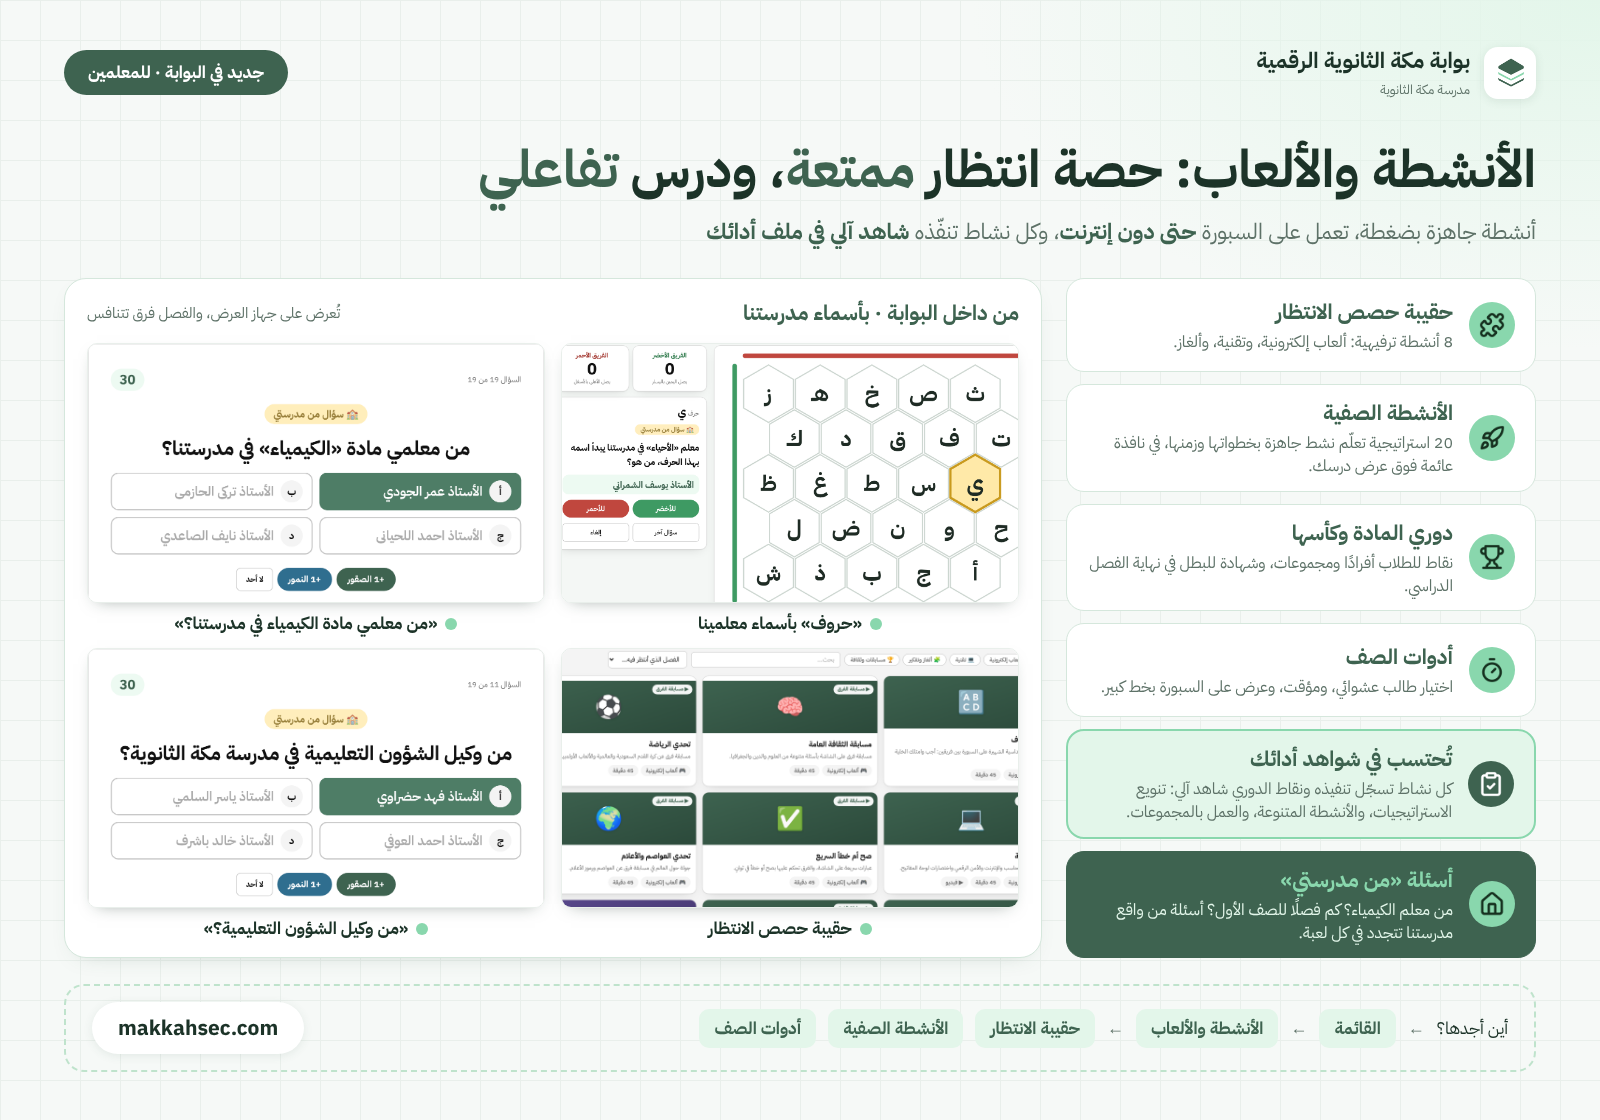
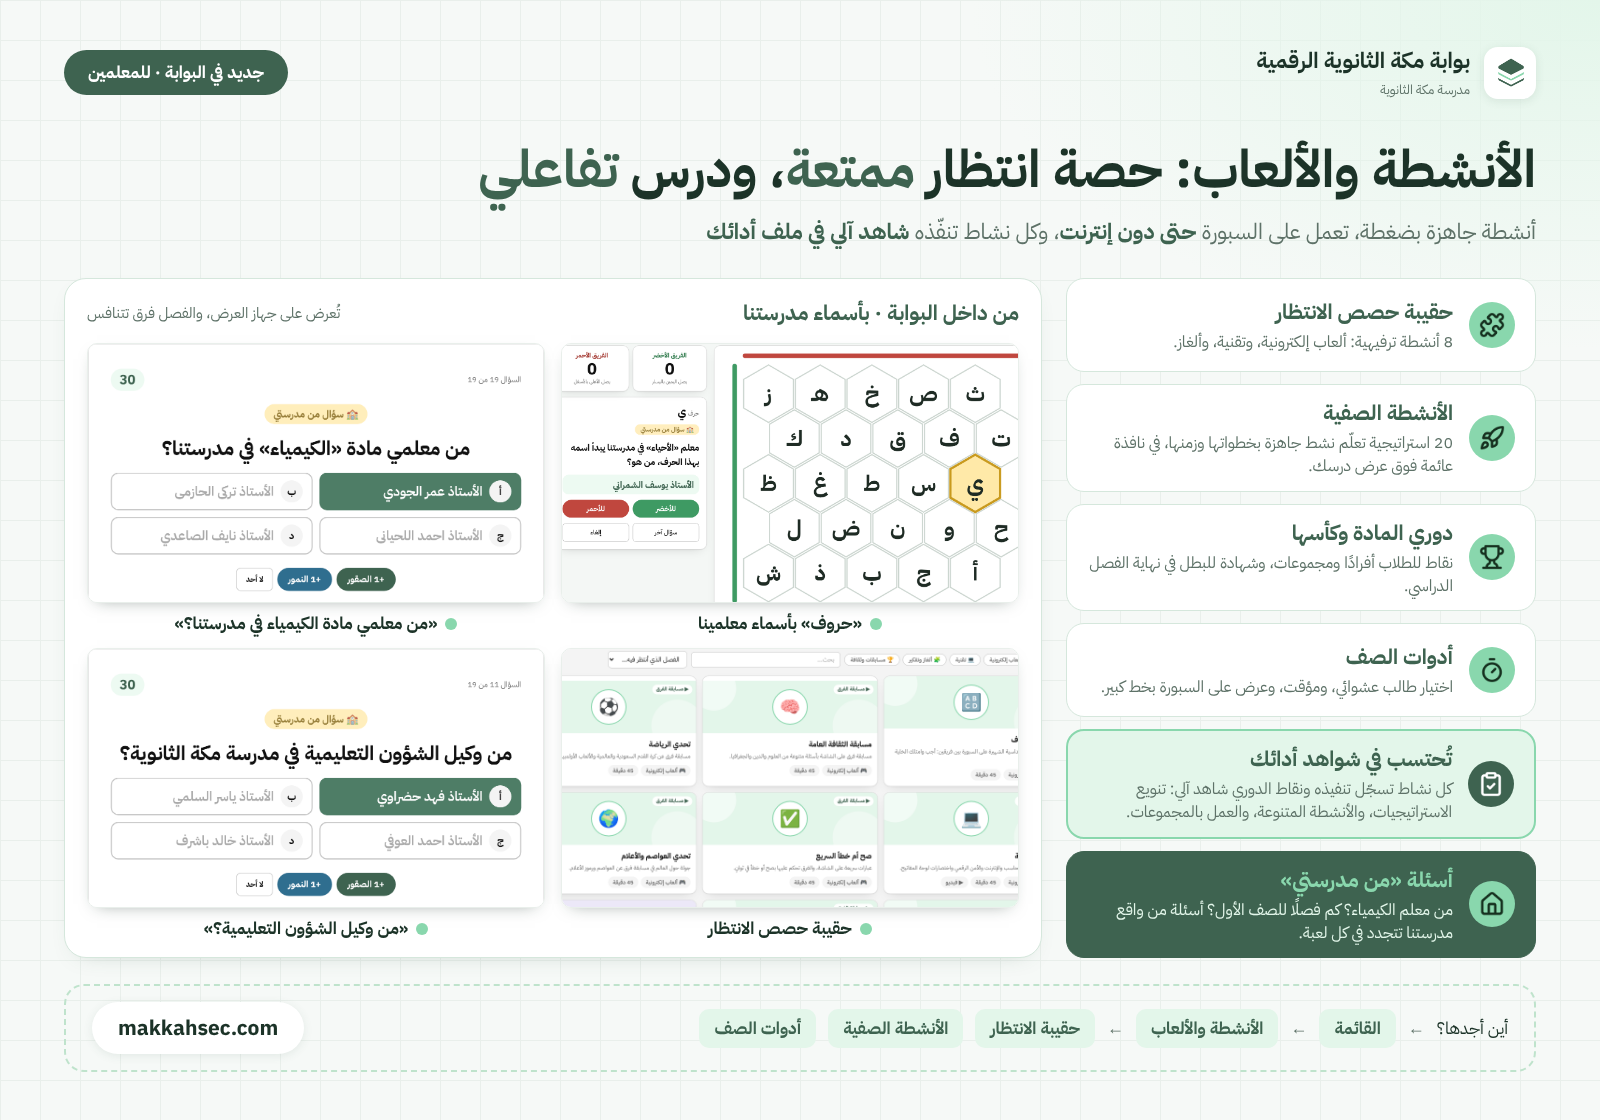
بنك الأنشطة: غلاف البطاقة أيقونة ملوّنة بسيطة على لون القسم الفاتح، وحفظ أيقونة كل بطاقة (عمود emoji) مع حقل لها في المحرّر
Claude-Session: https://claude.ai/code/session_01Rgn9H8rfrs15u85uTK8qzM

Changed region(s): [[0.3438, 0.6875, 0.6562, 0.8125], [0.3438, 0.5938, 0.6562, 0.6562]]

diff --git a/src/pages/activities/ActivityAdmin.jsx b/src/pages/activities/ActivityAdmin.jsx
@@ -10,7 +10,7 @@ import { activeYear } from "../../lib/performance.js";
 import { Cover, CardView } from "./ActivityBank.jsx";
 
 const EMPTY = { kind: "waiting", section: "games", title: "", summary: "", duration_min: 45, goals: "", materials: "",
-  steps: [{ min: 5, text: "" }], grades: [], subject: "", video_url: "", cover_path: null, images: [], game: "", game_data: null, published: true };
+  steps: [{ min: 5, text: "" }], grades: [], subject: "", video_url: "", cover_path: null, images: [], game: "", game_data: null, published: true, emoji: "" };
 
 // أسئلة الألعاب نصًّا: مسابقة الفرق «السؤال | خيار | خيار* | خيار» (* الصحيح)، وحروف «الحرف | السؤال | الجواب»
 const quizToText = (d) => (d?.questions ?? []).map((q) => [q.q, ...q.options.map((o, k) => (k === q.answer ? `${o}*` : o))].join(" | ")).join("\n");
@@ -57,7 +57,7 @@ export default function ActivityAdmin() {
     const rows = [...w, ...c].filter((x) => !have.has(x.seed)).map((x, i) => ({
       kind: x.kind, section: x.section, title: x.title, summary: x.summary, duration_min: x.duration_min, goals: x.goals,
       materials: x.materials, steps: x.steps ?? [], grades: x.grades ?? [], game: x.game || null, game_data: x.game_data ?? null,
-      seed_key: x.seed, sort: i, published: true }));
+      emoji: x.emoji ?? null, seed_key: x.seed, sort: i, published: true }));
     const { error } = rows.length ? await supabase.from("activity_cards").insert(rows) : { error: null };
     setBusy(false);
     setMsg(error ? { ok: false, t: error.message } : { ok: true, t: rows.length ? `استُوردت ${rows.length} بطاقة جاهزة ونُشرت للمعلمين.` : "البطاقات الجاهزة مستوردة من قبل." });
@@ -142,7 +142,7 @@ export default function ActivityAdmin() {
                 <p className="text-[11px] text-muted">{s ? `نُفّذ ${s.n} · 👍 ${s.up} · 👎 ${s.down}` : "لم يُنفَّذ بعد"}</p>
               </button>
               <Switch on={c.published} onChange={(v) => setActive([c.id], v)} />
-              <button type="button" className="text-xs text-mint-deep underline" onClick={() => setForm({ ...EMPTY, ...c, subject: c.subject ?? "", video_url: c.video_url ?? "", game: c.game ?? "" })}>تعديل</button>
+              <button type="button" className="text-xs text-mint-deep underline" onClick={() => setForm({ ...EMPTY, ...c, subject: c.subject ?? "", video_url: c.video_url ?? "", game: c.game ?? "", emoji: c.emoji ?? "" })}>تعديل</button>
               <button type="button" className="text-xs text-absent underline" onClick={() => remove(c)}>حذف</button>
             </div>
           );
@@ -260,7 +260,7 @@ function Editor({ init, onClose }) {
     const row = { kind: f.kind, section: f.section, title: f.title.trim(), summary: f.summary || null, duration_min: Number(f.duration_min) || null,
       goals: f.goals || null, materials: f.materials || null, steps: f.steps.filter((s) => s.text?.trim()).map((s) => ({ min: Number(s.min) || null, text: s.text.trim() })),
       grades: f.grades, subject: f.kind === "class" ? f.subject || null : null, video_url: f.video_url || null, cover_path: f.cover_path,
-      images: f.images, game: f.game || null, game_data, published: f.published, updated_at: new Date().toISOString() };
+      images: f.images, game: f.game || null, game_data, published: f.published, emoji: f.emoji?.trim() || null, updated_at: new Date().toISOString() };
     setBusy(true); setErr("");
     const { error } = f.id ? await supabase.from("activity_cards").update(row).eq("id", f.id) : await supabase.from("activity_cards").insert(row);
     setBusy(false);
@@ -273,6 +273,7 @@ function Editor({ init, onClose }) {
       <div className="grid gap-3 sm:grid-cols-2">
         <L t="القسم"><select className="field" value={f.section} onChange={(e) => set("section", e.target.value)}>
           {sectionsOf(f.kind).map((s) => <option key={s.key} value={s.key}>{s.emoji} {s.label}</option>)}</select></L>
+        <L t="أيقونة البطاقة (رمز تعبيري واحد، مثل 🎯 أو 🧪)"><input className="field text-xl" maxLength={8} placeholder={sectionMeta(f.kind, f.section).emoji} value={f.emoji ?? ""} onChange={(e) => set("emoji", e.target.value)} /></L>
         <L t="المدة (دقيقة)"><input type="number" className="field num" value={f.duration_min ?? ""} onChange={(e) => set("duration_min", e.target.value)} /></L>
         <L t="العنوان" className="sm:col-span-2"><input className="field" value={f.title} onChange={(e) => set("title", e.target.value)} /></L>
         <L t="وصف مختصر" className="sm:col-span-2"><input className="field" value={f.summary ?? ""} onChange={(e) => set("summary", e.target.value)} /></L>

diff --git a/src/lib/activities.js b/src/lib/activities.js
@@ -4,23 +4,23 @@ import { supabase } from "./supabase";
 
 // حقيبة حصص الانتظار: الترفيه أولًا، والألعاب والرياضة والتقنية في المقدمة
 export const WAITING_SECTIONS = [
-  { key: "games",   label: "ألعاب إلكترونية", emoji: "🎮", tint: "from-[#3E6350] to-[#2C4A3B]" },
-  { key: "sports",  label: "رياضة وحركة",     emoji: "⚽", tint: "from-[#2F6E8F] to-[#1F4E66]" },
-  { key: "tech",    label: "تقنية",           emoji: "💻", tint: "from-[#5B4A8F] to-[#3E3266]" },
-  { key: "puzzles", label: "ألغاز وتفكير",    emoji: "🧩", tint: "from-[#8F6A2F] to-[#664B1F]" },
-  { key: "culture", label: "مسابقات وثقافة",  emoji: "🏆", tint: "from-[#8F3F3F] to-[#662C2C]" },
+  { key: "games",   label: "ألعاب إلكترونية", emoji: "🎮", tint: "from-[#3E6350] to-[#2C4A3B]", soft: "bg-[#E3F6EA]", ring: "ring-[#89D7AD]" },
+  { key: "sports",  label: "رياضة وحركة",     emoji: "⚽", tint: "from-[#2F6E8F] to-[#1F4E66]", soft: "bg-[#E1F0F8]", ring: "ring-[#8EC5E3]" },
+  { key: "tech",    label: "تقنية",           emoji: "💻", tint: "from-[#5B4A8F] to-[#3E3266]", soft: "bg-[#ECE8F8]", ring: "ring-[#B7A9E6]" },
+  { key: "puzzles", label: "ألغاز وتفكير",    emoji: "🧩", tint: "from-[#8F6A2F] to-[#664B1F]", soft: "bg-[#FBF1DF]", ring: "ring-[#EBC98A]" },
+  { key: "culture", label: "مسابقات وثقافة",  emoji: "🏆", tint: "from-[#8F3F3F] to-[#662C2C]", soft: "bg-[#FBE7E7]", ring: "ring-[#EBA5A5]" },
 ];
 
 export const CLASS_SECTIONS = [
-  { key: "warmup", label: "تهيئة",        emoji: "💡", tint: "from-[#8F6A2F] to-[#664B1F]" },
-  { key: "active", label: "تعلم نشط",     emoji: "🚀", tint: "from-[#3E6350] to-[#2C4A3B]" },
-  { key: "coop",   label: "تعاوني",       emoji: "🤝", tint: "from-[#2F6E8F] to-[#1F4E66]" },
-  { key: "assess", label: "تقويم بنائي",  emoji: "✅", tint: "from-[#5B4A8F] to-[#3E3266]" },
-  { key: "diff",   label: "فروق فردية",   emoji: "🎯", tint: "from-[#8F3F3F] to-[#662C2C]" },
+  { key: "warmup", label: "تهيئة",        emoji: "💡", tint: "from-[#8F6A2F] to-[#664B1F]", soft: "bg-[#FBF1DF]", ring: "ring-[#EBC98A]" },
+  { key: "active", label: "تعلم نشط",     emoji: "🚀", tint: "from-[#3E6350] to-[#2C4A3B]", soft: "bg-[#E3F6EA]", ring: "ring-[#89D7AD]" },
+  { key: "coop",   label: "تعاوني",       emoji: "🤝", tint: "from-[#2F6E8F] to-[#1F4E66]", soft: "bg-[#E1F0F8]", ring: "ring-[#8EC5E3]" },
+  { key: "assess", label: "تقويم بنائي",  emoji: "✅", tint: "from-[#5B4A8F] to-[#3E3266]", soft: "bg-[#ECE8F8]", ring: "ring-[#B7A9E6]" },
+  { key: "diff",   label: "فروق فردية",   emoji: "🎯", tint: "from-[#8F3F3F] to-[#662C2C]", soft: "bg-[#FBE7E7]", ring: "ring-[#EBA5A5]" },
 ];
 
 export const sectionsOf = (kind) => (kind === "waiting" ? WAITING_SECTIONS : CLASS_SECTIONS);
-export const sectionMeta = (kind, key) => sectionsOf(kind).find((s) => s.key === key) ?? { key, label: key, emoji: "⭐", tint: "from-[#3E6350] to-[#2C4A3B]" };
+export const sectionMeta = (kind, key) => sectionsOf(kind).find((s) => s.key === key) ?? { key, label: key, emoji: "⭐", tint: "from-[#3E6350] to-[#2C4A3B]", soft: "bg-[#E3F6EA]", ring: "ring-[#89D7AD]" };
 
 export const GAMES = { huroof: "حروف", teams_quiz: "مسابقة الفرق" };
 

diff --git a/src/pages/activities/ActivityBank.jsx b/src/pages/activities/ActivityBank.jsx
@@ -10,13 +10,21 @@ import GameHost from "./games/GameHost.jsx";
 import { FloatPortal, canPin, useFloatWindow } from "./FloatWindow.jsx";
 import { Timer } from "./ClassTools.jsx";
 
+// غلاف البطاقة بلا صورة: أيقونة النشاط الملوّنة في دائرة بيضاء على لون قسمه الفاتح
 export function Cover({ card, className = "h-28" }) {
   const meta = sectionMeta(card.kind, card.section);
   const img = mediaUrl(card.cover_path);
+  const small = /\bh-(1[0-6]|[0-9])\b/.test(className);   // مصغّرات قائمة الإدارة
   return img ? <img src={img} alt="" className={`${className} w-full object-cover`} />
     : (
-      <div className={`${className} grid w-full place-items-center bg-gradient-to-br ${meta.tint}`}>
-        <span className="text-5xl drop-shadow">{card.emoji ?? meta.emoji}</span>
+      <div className={`${className} relative grid w-full place-items-center overflow-hidden ${meta.soft}`}>
+        {!small && <>
+          <span className="absolute -left-6 -top-8 h-24 w-24 rounded-full bg-white/50" />
+          <span className="absolute -bottom-10 -right-4 h-28 w-28 rounded-full bg-white/40" />
+        </>}
+        <span className={`relative grid place-items-center rounded-full bg-white ring-2 ${meta.ring} ${small ? "h-8 w-8 text-lg" : "h-[4.5rem] w-[4.5rem] text-4xl shadow-sm"}`}>
+          {card.emoji || meta.emoji}
+        </span>
       </div>
     );
 }
